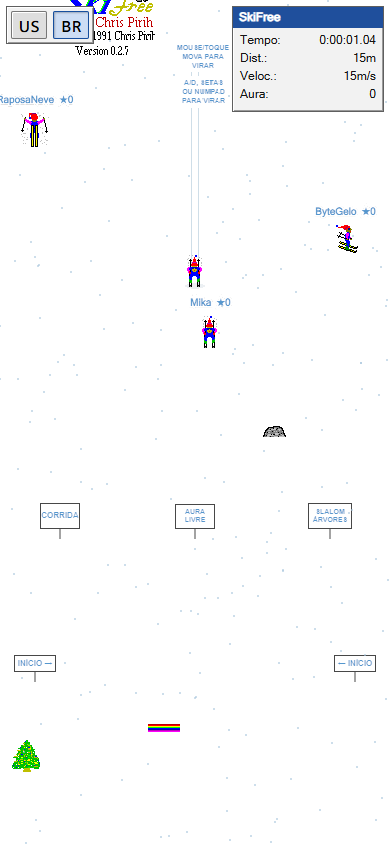
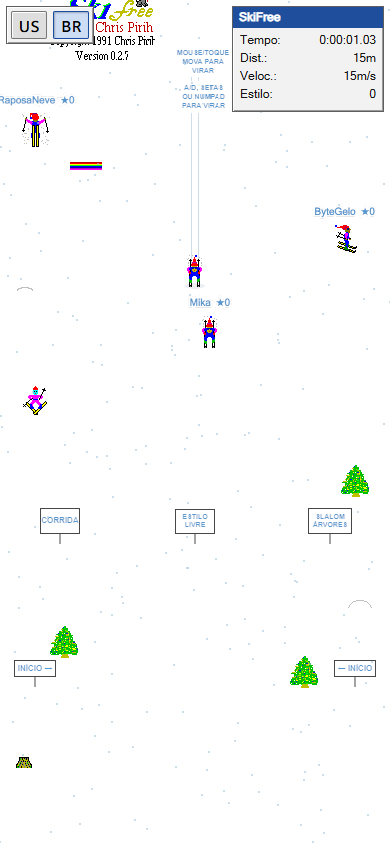
pt-BR: rename 'aura' to 'estilo' (matches original Style/Freestyle)

diff --git a/src/main.js b/src/main.js
@@ -93,22 +93,22 @@ const TRANSLATIONS = Object.freeze({
     timeLabel: "Tempo:",
     distanceLabel: "Dist.:",
     speedLabel: "Veloc.:",
-    styleLabel: "Aura:",
+    styleLabel: "Estilo:",
     paused: "Pausado",
     records: "Recordes",
     resultHint: "Toque na tela ou pressione Enter para continuar",
     loading: "Carregando",
     loadFailed: "Falha ao carregar",
-    style: "aura",
+    style: "estilo",
     flag: "Bandeira",
-    points: "{value} aura",
+    points: "{value} estilo",
     yourResult: "seu resultado!",
     tryAgain: "tente novamente!",
     courseRace: "Corrida",
-    courseFreestyle: "Aura livre",
+    courseFreestyle: "Estilo livre",
     courseTreeSlalom: "Slalom entre árvores",
     courseStarted: "Prova iniciada: {mode}",
-    courseFinishedStyle: "Prova concluída — {mode}: {value} aura",
+    courseFinishedStyle: "Prova concluída — {mode}: {value} estilo",
     courseFinishedTime: "Prova concluída — {mode}: {value}",
     resultsTitle: "SkiFree - Resultados de {mode}",
     yetiCaught: "O Yeti pegou você",
@@ -124,7 +124,7 @@ const TRANSLATIONS = Object.freeze({
       finishRight: ["FIM →"],
       race: ["CORRIDA"],
       treeSlalom: ["SLALOM", "ÁRVORES"],
-      freestyle: ["AURA", "LIVRE"]
+      freestyle: ["ESTILO", "LIVRE"]
     }
   },
   "en-US": {
@@ -764,7 +764,7 @@ class SkiFreeGame {
     if (points <= 0 || !this.styleEffects) return;
     const effect = document.createElement("div");
     effect.className = "style-popup";
-    effect.textContent = this.language === "pt-BR" ? "+ aura" : `+${Math.floor(points)} ${label}`;
+    effect.textContent = `+${Math.floor(points)} ${label}`;
     effect.style.setProperty("--drift", `${Math.round((Math.random() - 0.5) * 54)}px`);
     this.styleEffects.append(effect);
     effect.addEventListener("animationend", () => effect.remove(), { once: true });

diff --git a/index.html b/index.html
@@ -25,7 +25,7 @@
           <div><dt data-i18n="timeLabel">Tempo:</dt><dd id="time-value">0:00:00.00</dd></div>
           <div><dt data-i18n="distanceLabel">Dist.:</dt><dd id="distance-value">0m</dd></div>
           <div><dt data-i18n="speedLabel">Veloc.:</dt><dd id="speed-value">0m/s</dd></div>
-          <div><dt data-i18n="styleLabel">Aura:</dt><dd id="style-value">0</dd></div>
+          <div><dt data-i18n="styleLabel">Estilo:</dt><dd id="style-value">0</dd></div>
         </dl>
       </section>
       <div id="pause-card" data-i18n="paused" hidden>Pausado</div>
